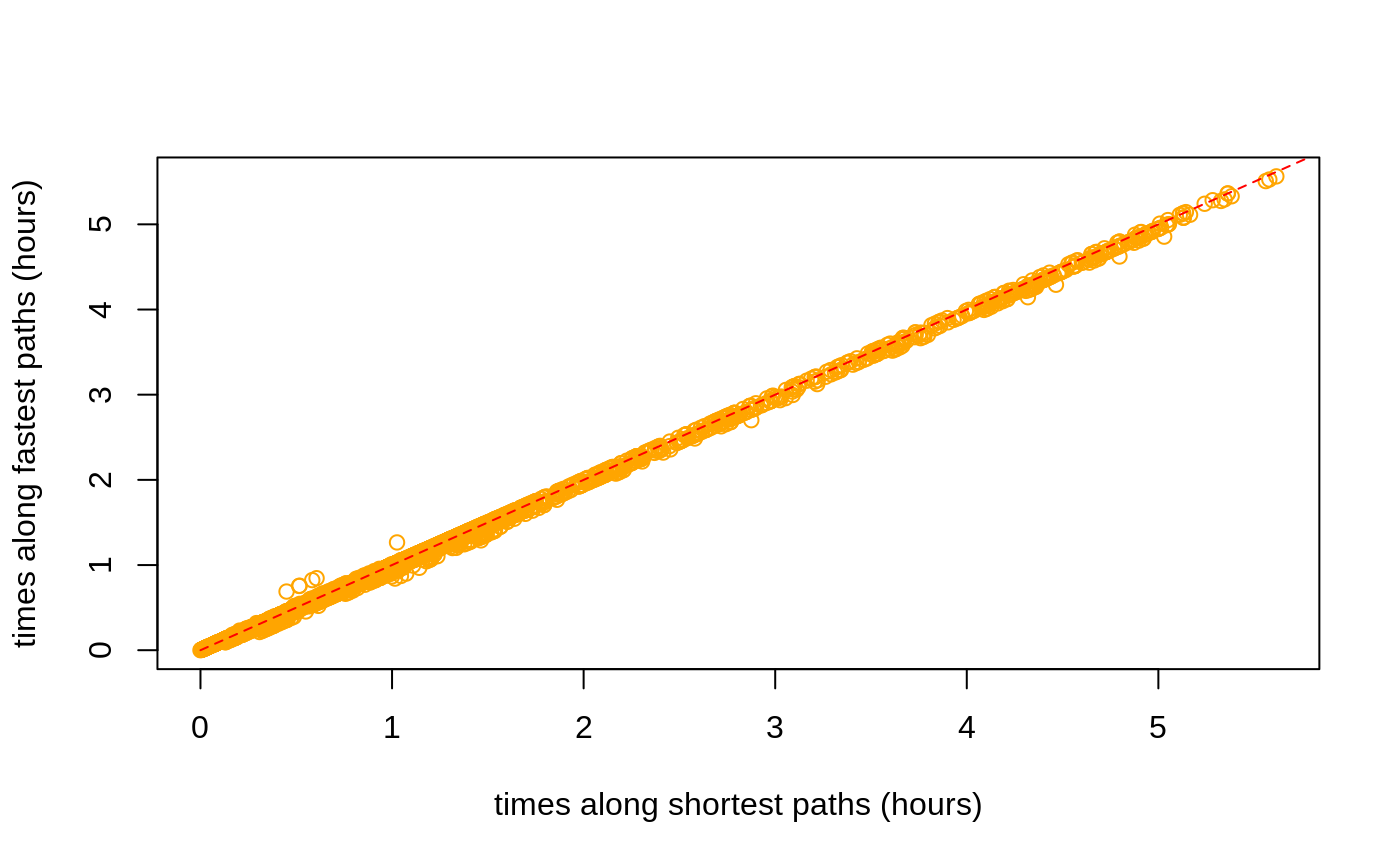
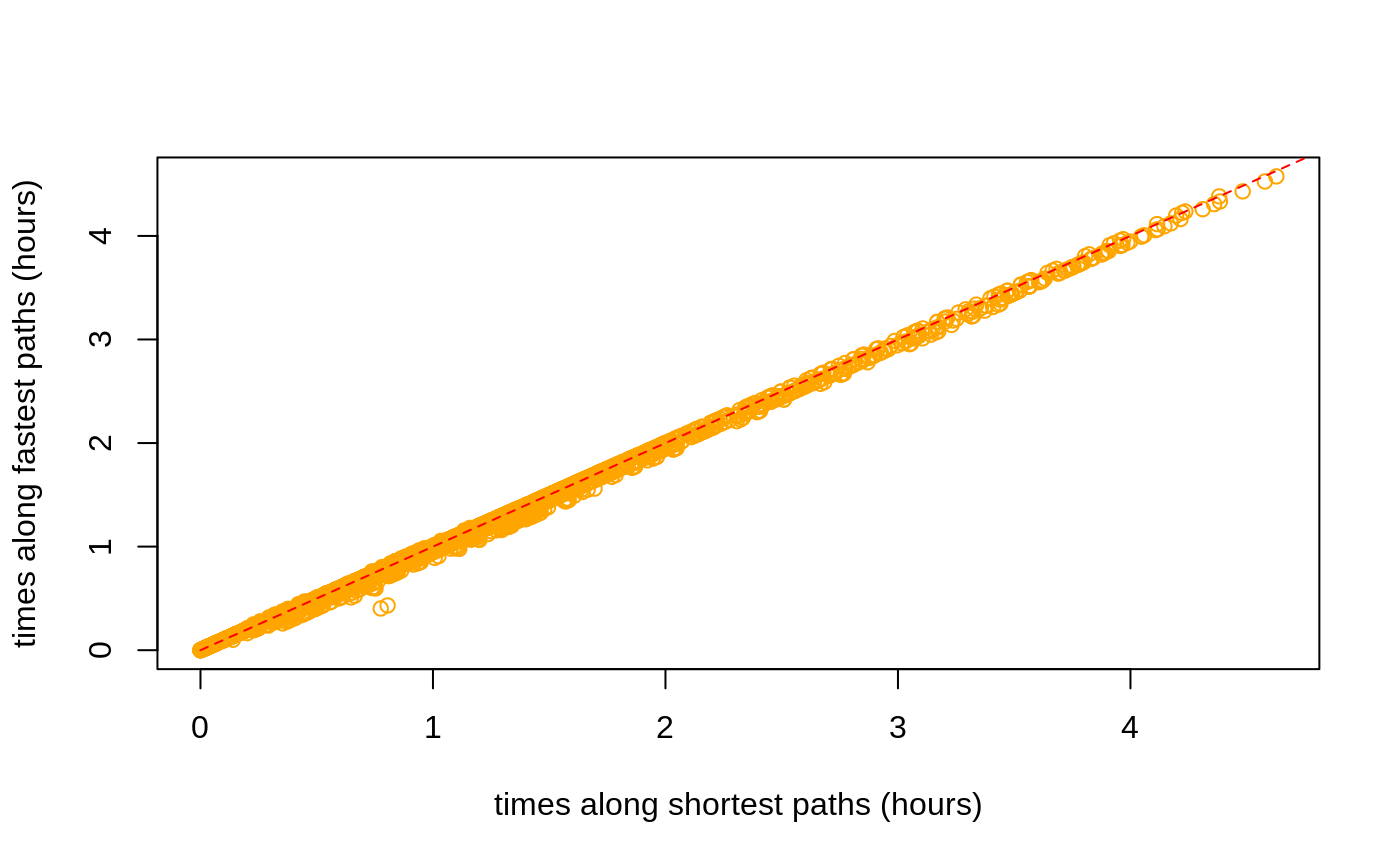
Built site for dodgr: 0.2.5.25@4a228a8

diff --git a/articles/dodgr.html b/articles/dodgr.html
@@ -70,7 +70,7 @@
       <h1>dodgr</h1>
                         <h4 class="author">Mark Padgham</h4>
             
-            <h4 class="date">2019-11-07</h4>
+            <h4 class="date">2019-11-12</h4>
       
       <small class="dont-index">Source: <a href="https://github.com/ATFutures/dodgr/blob/master/vignettes/dodgr.Rmd"><code>vignettes/dodgr.Rmd</code></a></small>
       <div class="hidden name"><code>dodgr.Rmd</code></div>
@@ -424,22 +424,22 @@
 ## 1                  d &lt;- dodgr_dists(graph, from = from_id, to = to_id, heap = "BHeap")
 ## 12                  d &lt;- igraph::distances(igr, v = from_id, to = to_id, mode = "out")
 ## 2                  d &lt;- dodgr_dists(graph, from = from_id, to = to_id, heap = "FHeap")
-## 3                d &lt;- dodgr_dists(graph, from = from_id, to = to_id, heap = "TriHeap")
 ## 5                 d &lt;- dodgr_dists(graph, from = from_id, to = to_id, heap = "Heap23")
+## 3                d &lt;- dodgr_dists(graph, from = from_id, to = to_id, heap = "TriHeap")
 ## 4             d &lt;- dodgr_dists(graph, from = from_id, to = to_id, heap = "TriHeapExt")
 ##    replications elapsed relative user.self sys.self user.child sys.child
-## 6             1   0.005      1.0     0.007        0          0         0
-## 11            1   0.005      1.0     0.007        0          0         0
-## 7             1   0.007      1.4     0.010        0          0         0
-## 8             1   0.007      1.4     0.012        0          0         0
-## 10            1   0.007      1.4     0.012        0          0         0
-## 9             1   0.008      1.6     0.008        0          0         0
-## 1             1   0.017      3.4     0.027        0          0         0
-## 12            1   0.024      4.8     0.024        0          0         0
-## 2             1   0.027      5.4     0.046        0          0         0
-## 3             1   0.031      6.2     0.054        0          0         0
-## 5             1   0.031      6.2     0.052        0          0         0
-## 4             1   0.035      7.0     0.035        0          0         0</code></pre>
+## 6             1   0.003    1.000     0.004        0          0         0
+## 11            1   0.003    1.000     0.004        0          0         0
+## 7             1   0.004    1.333     0.004        0          0         0
+## 8             1   0.004    1.333     0.006        0          0         0
+## 10            1   0.004    1.333     0.006        0          0         0
+## 9             1   0.005    1.667     0.004        0          0         0
+## 1             1   0.011    3.667     0.015        0          0         0
+## 12            1   0.012    4.000     0.012        0          0         0
+## 2             1   0.015    5.000     0.024        0          0         0
+## 5             1   0.017    5.667     0.028        0          0         0
+## 3             1   0.018    6.000     0.030        0          0         0
+## 4             1   0.020    6.667     0.019        0          0         0</code></pre>
 <p>The key column of that <code>data.frame</code> is <code>relative</code>, which quantifies the relative performance of each test in relation to the best which is given a score of 1. <code>dodgr</code> using the default <code>heap = "BHeap"</code>, which is a binary heap priority queue, performs faster than <a href="https://igraph.org"><code>igraph</code></a> <span class="citation">(Csardi and Nepusz 2006)</span> for these graphs. Different kind of graphs will perform differently with different priority queue structures, and this function enables users to empirically discern the optimal heap for their kind of graph.</p>
 <p>Note, however, that this is not an entirely fair comparison, because <code>dodgr</code> calculates dual-weighted distances, whereas <a href="https://igraph.org"><code>igraph</code></a>—and indeed all other <strong>R</strong> packages—only directly calculate distances based on a single set of weights. Implementing dual-weighted routing in these cases requires explicitly re-tracing all paths and summing the second set of weights along each path. A time comparison in that case would be very strongly in favour of <code>dodgr</code>. Moreover, <code>dodgr</code> can convert graphs to contracted form through removing redundant vertices, as detailed in the following section. Doing so greatly improves performance with respect to <a href="https://igraph.org"><code>igraph</code></a>.</p>
 <p>For those wishing to do explicit comparisons themselves, the following code generates the <a href="https://igraph.org"><code>igraph</code></a> equivalent of <a href="https://atfutures.github.io/dodgr/reference/dodgr_distances.html"><code><a href="../reference/dodgr_distances.html">dodgr_distances()</a></code></a>, although of course for single-weighted graphs only:</p>
@@ -470,11 +470,11 @@
 <a class="sourceLine" id="cb86-5" data-line-number="5">                       d2 &lt;-<span class="st"> </span><span class="kw"><a href="../reference/dodgr_dists.html">dodgr_dists</a></span> (graph, <span class="dt">from =</span> from, <span class="dt">to =</span> to),</a>
 <a class="sourceLine" id="cb86-6" data-line-number="6">                       <span class="dt">replications =</span> <span class="dv">2</span>)</a></code></pre></div>
 <pre><code>##                                             test replications elapsed
-## 2 d2 &lt;- dodgr_dists(graph, from = from, to = to)            2   0.045
-## 1   d2 &lt;- dodgr_dists(grc, from = from, to = to)            2   0.009
+## 2 d2 &lt;- dodgr_dists(graph, from = from, to = to)            2   0.035
+## 1   d2 &lt;- dodgr_dists(grc, from = from, to = to)            2   0.006
 ##   relative user.self sys.self user.child sys.child
-## 2        5     0.065        0          0         0
-## 1        1     0.011        0          0         0</code></pre>
+## 2    5.833     0.052    0.000          0         0
+## 1    1.000     0.005    0.004          0         0</code></pre>
 <p>And contracting the graph has a similar effect of speeding up pairwise routing between these 100 points. All routing algorithms scale non-linearly with size, and relative improvements in efficiency will be even greater for larger graphs.</p>
 <div id="routing-on-contracted-graphs" class="section level2">
 <h2 class="hasAnchor">
@@ -486,11 +486,11 @@
 <pre><code>## [1] 672</code></pre>
 <div class="sourceCode" id="cb90"><pre class="sourceCode r"><code class="sourceCode r"><a class="sourceLine" id="cb90-1" data-line-number="1">verts &lt;-<span class="st"> </span><span class="kw"><a href="https://rdrr.io/r/base/sample.html">sample</a></span> (<span class="kw"><a href="../reference/dodgr_vertices.html">dodgr_vertices</a></span> (graph)<span class="op">$</span>id, <span class="dt">size =</span> <span class="dv">100</span>)</a>
 <a class="sourceLine" id="cb90-2" data-line-number="2"><span class="kw"><a href="https://rdrr.io/r/utils/head.html">head</a></span> (verts) <span class="co"># a character vector</span></a></code></pre></div>
-<pre><code>## [1] "2717241316" "571423430"  "2398957714" "1691496204" "2195424909"
-## [6] "1427080684"</code></pre>
+<pre><code>## [1] "571423751"  "1148814971" "2195424991" "1161117501" "6161853527"
+## [6] "1143452536"</code></pre>
 <div class="sourceCode" id="cb92"><pre class="sourceCode r"><code class="sourceCode r"><a class="sourceLine" id="cb92-1" data-line-number="1">grc &lt;-<span class="st"> </span><span class="kw"><a href="../reference/dodgr_contract_graph.html">dodgr_contract_graph</a></span> (graph, verts)</a>
 <a class="sourceLine" id="cb92-2" data-line-number="2"><span class="kw"><a href="https://rdrr.io/r/base/nrow.html">nrow</a></span> (grc)</a></code></pre></div>
-<pre><code>## [1] 846</code></pre>
+<pre><code>## [1] 843</code></pre>
 <p>Retaining the nominated vertices yields a graph with considerably more edges than the fully contracted graph excluding these vertices. The <a href="https://atfutures.github.io/dodgr/reference/dodgr_distances.html"><code><a href="../reference/dodgr_distances.html">dodgr_distances()</a></code></a> function can be applied to the latter graph to obtain accurate distances precisely routed between these points, yet using the speed advantages of graph contraction.</p>
 </div>
 </div>
@@ -531,37 +531,87 @@
 <pre><code>## [1] 10</code></pre>
 <p>The result (<code>dp</code>) is a list of 10 items, each of which contains 5 vectors. An example is,</p>
 <div class="sourceCode" id="cb99"><pre class="sourceCode r"><code class="sourceCode r"><a class="sourceLine" id="cb99-1" data-line-number="1">dp [[<span class="dv">1</span>]] [[<span class="dv">1</span>]]</a></code></pre></div>
-<pre><code>##  [1] "1204772772" "1204772832" "1388483668" "1204772777" "1204772855"
-##  [6] "1388481881" "1204772661" "1204772759" "1204772723" "3526242955"
-## [11] "1204772781" "1204772873" "1388483320" "1388482647" "1204772675"
-## [16] "1204772877" "1204772708" "1204772780" "1204772868" "1388482473"
-## [21] "1204772830" "1388481903" "3921525779" "1204772909" "1204772735"
-## [26] "3921523914" "1388483358" "1204772801" "1388483466" "1204772874"
-## [31] "1204772697" "3921523012" "1204772779" "1204772753" "3921522973"
-## [36] "1388482448" "1204772895" "1204772726" "1204772914" "1388483784"
-## [41] "1388482296" "1388483001" "1204772748" "1204772807" "1204772888"
-## [46] "1388483168" "1204772860" "1204772663" "1388482943" "1388482235"
-## [51] "977472736"  "977472640"  "1388483756" "1388483120" "977472872" 
-## [56] "977472830"  "977473072"  "977472969"  "1388483451" "977473047" 
-## [61] "6410121123" "2627480728" "4552228189" "977472811"  "977472776" 
-## [66] "5351394447" "977473010"  "977472907"  "977473143"  "5351394450"
-## [71] "5351394449" "977472990"  "5351394451" "5351394452" "977472618" 
-## [76] "5351394453" "977473123"  "977472755"  "977472717"  "977472947" 
-## [81] "977472850"  "5351394454" "977473090"  "5351394457" "5351394456"
-## [86] "5351394455" "977472926"  "977473069"  "5351394458" "980499691" 
-## [91] "1715805316" "977472699"  "1715830667" "3818704553" "3818704554"
-## [96] "3818704555" "3818704556" "3818705557" "3818705558"</code></pre>
+<pre><code>##   [1] "3544918745" "3544918726" "3544918719" "3544918713" "3544918711"
+##   [6] "3544918709" "3544918710" "3544918712" "3544918714" "3544918715"
+##  [11] "3544918717" "3544918718" "3544918722" "3544918727" "3544918728"
+##  [16] "3544918729" "3544918730" "3544918734" "3544918738" "3544918736"
+##  [21] "3544918737" "3544918739" "3544918742" "3544918741" "3544918740"
+##  [26] "3544918735" "3544918733" "3544918732" "3544918731" "3544918725"
+##  [31] "3544918720" "3544918716" "3544918708" "3544918705" "3544918701"
+##  [36] "3544918699" "1691496284" "3544918695" "3544918692" "3544918690"
+##  [41] "3544918688" "3544918684" "677638827"  "1691496416" "677638828" 
+##  [46] "1691496412" "1161117556" "1691496409" "677638825"  "1691496407"
+##  [51] "1691496375" "1691496404" "1691496406" "1691496372" "1691495745"
+##  [56] "1691496367" "677638829"  "1161117413" "1161117358" "1161117772"
+##  [61] "1691496364" "1691496190" "677638821"  "1691496086" "1161117473"
+##  [66] "1161117620" "1691496081" "676875383"  "1691495727" "677638822" 
+##  [71] "677638823"  "1691495723" "1691495720" "1691495717" "1161117349"
+##  [76] "1691495698" "245631502"  "1691495696" "1161117543" "1691495693"
+##  [81] "1691495680" "1691495677" "1161117452" "1691495672" "1161117302"
+##  [86] "1691495665" "1691495937" "1161117663" "1691496251" "1691496243"
+##  [91] "1161117704" "1691496247" "1691496237" "1161117404" "1691496236"
+##  [96] "1691496204" "1161117288" "1691495910" "1691495985" "677638817" 
+## [101] "1161117652" "1161117586" "1691495982" "1161117526" "1691495952"
+## [106] "1691495943" "1161117392" "1691495939" "1161117756" "1691495934"
+## [111] "1161117440" "1376769146" "1161117501" "1691495929" "1161117383"
+## [116] "1691496079" "1161117679" "677638820"  "1691496070" "1161117278"
+## [121] "1691496072" "1691496075" "1128374463" "1161117327" "2398958044"
+## [126] "2398958043" "2398958041" "2398958040" "677638818"  "6433630456"
+## [131] "1161117434" "2398958010" "2398958005" "1128374490" "2398957968"
+## [136] "1161117636" "2398957939" "1376768724" "677638819"  "1376768355"
+## [141] "1128374455" "1376768842" "2398957896" "2398957895" "1128374434"
+## [146] "1376768821" "677638770"  "1376768479" "1376769040" "2398957837"
+## [151] "2398957826" "1128374394" "2398957816" "1376768691" "977461235" 
+## [156] "1128374418" "1376768409" "1376768986" "245631194"  "1376768627"
+## [161] "1128374362" "676875279"  "1357430213" "1161117548" "1128374360"
+## [166] "1376769220" "1376768749" "1357430014" "1376768380" "676875276" 
+## [171] "1376768957" "1357430113" "1376768597" "1376768325" "1161117723"
+## [176] "1376768899" "1161117735" "1376768537" "676875308"  "1376769132"
+## [181] "1128374447" "1376768650" "1376768293" "676875274"  "1376768867"
+## [186] "1161117304" "1376768504" "1128374467" "1128374373" "6161027522"
+## [191] "1128374412" "1376769190" "1128374442" "676875269"  "245631169" 
+## [196] "1376768805" "2398957722" "313796425"  "2398957720" "1376769010"
+## [201] "2398957713" "1376768565" "2398957701" "2398957696" "1128374495"
+## [206] "313796426"  "1128374399" "313796427"  "313796428"  "2398957603"
+## [211] "313796429"  "1427594112" "1376769158" "313796430"  "313796431" 
+## [216] "2398957567" "2398957563" "3338186986" "313796432"  "2398957555"
+## [221] "2398957554" "1376768773" "313796433"  "2419196948" "2398957539"
+## [226] "676875267"  "2398957521" "2398957526" "2398957532" "2398957537"
+## [231] "676635860"  "2398957542" "2398957543" "2398957544" "2398957546"
+## [236] "338905245"  "2398957549" "2398957557" "2398957561" "338905227" 
+## [241] "2398957564" "338905221"  "2398957568" "2398957570" "2398957571"
+## [246] "1427594104" "2398957576" "338905220"  "2398957584" "1376769086"
+## [251] "1376768510" "2398957588" "2398957589" "338905219"  "1376768779"
+## [256] "1376769164" "338905128"  "1427115955" "339574628"  "2398957619"
+## [261] "339574629"  "339574630"  "2398957639" "2398957654" "1148814809"
+## [266] "2717241324" "339574631"  "2398957686" "3818714155" "339574819" 
+## [271] "339574820"  "3818714154" "6228103645" "6228103646" "6228103647"
+## [276] "6228103648" "6228103649" "339574828"  "339574829"  "1376768626"
+## [281] "1376768985" "1376768324" "1376768690" "1376769039" "1376768478"
+## [286] "1560930407" "1376768586" "1376768946" "1376768369" "1376768738"
+## [291] "2717241312" "2717241323" "2717241306" "2717241321" "2717241309"
+## [296] "2717241332" "2717241339" "2717241317" "2717241331" "2717241300"
+## [301] "2717241302" "6410121124" "1376768559" "1376768918" "1376769209"
+## [306] "1376768614" "1376768975" "1376768398" "1376768862" "1376768464"
+## [311] "1376768828" "1376769110" "3697937607" "3697937608" "3697937609"
+## [316] "3697937616" "3697937612" "3697937611" "3697937613" "3697937614"
+## [321] "3697937615" "3697937610" "3697937571" "3697938325" "3697938326"
+## [326] "3697938327" "3697938328" "3697938332" "3697938329" "3697938330"
+## [331] "3697938331" "3697938336" "3697938337" "3697938338" "3697938333"
+## [336] "3697938334" "3697938335" "3697938022" "3697938021" "3697938023"
+## [341] "3697938024" "338904455"  "1054862659" "2398957839" "1148814749"
+## [346] "2398957836" "1148815271" "2398957833" "1054866750"</code></pre>
 <p>For spatial graphs, the coordinates of these paths can be obtained by extracting the vertices with <code><a href="../reference/dodgr_vertices.html">dodgr_vertices()</a></code> and matching the vertex IDs:</p>
 <div class="sourceCode" id="cb101"><pre class="sourceCode r"><code class="sourceCode r"><a class="sourceLine" id="cb101-1" data-line-number="1">verts &lt;-<span class="st"> </span><span class="kw"><a href="../reference/dodgr_vertices.html">dodgr_vertices</a></span> (graph)</a>
 <a class="sourceLine" id="cb101-2" data-line-number="2">path1 &lt;-<span class="st"> </span>verts [<span class="kw"><a href="https://rdrr.io/r/base/match.html">match</a></span> (dp [[<span class="dv">1</span>]] [[<span class="dv">1</span>]], verts<span class="op">$</span>id), ]</a>
 <a class="sourceLine" id="cb101-3" data-line-number="3"><span class="kw"><a href="https://rdrr.io/r/utils/head.html">head</a></span> (path1)</a></code></pre></div>
 <pre><code>##              id        x        y component   n
-## 1460 1204772772 76.38940 15.34776         2 742
-## 1462 1204772832 76.38979 15.34846         2 743
-## 1464 1388483668 76.39092 15.35085         2 744
-## 1466 1204772777 76.39116 15.35116         2 745
-## 1468 1204772855 76.39161 15.35147         2 746
-## 1470 1388481881 76.39200 15.35166         2 747</code></pre>
+## 1146 3544918745 76.59592 15.37955         1 585
+## 1144 3544918726 76.59472 15.37754         1 584
+## 1142 3544918719 76.59412 15.37688         1 583
+## 1140 3544918713 76.59389 15.37667         1 582
+## 1138 3544918711 76.59374 15.37662         1 581
+## 1136 3544918709 76.59349 15.37660         1 580</code></pre>
 <p>Paths calculated on contracted graphs will of course have fewer vertices than those calculated on full graphs.</p>
 </div>
 <div id="aggregated-flows" class="section level1">
@@ -595,17 +645,17 @@
 ## 4 15.34173   8.888670   11.11084 unclassified 28565950         1  6.399842
 ## 5 15.34179   9.326536   11.65817 unclassified 28565950         1  6.715106
 ## 6 15.34174   9.326536   11.65817 unclassified 28565950         1  6.715106
-##   time_weighted flow
-## 1    119.197952    0
-## 2    119.197952    0
-## 3      7.999803    0
-## 4      7.999803    0
-## 5      8.393882    0
-## 6      8.393882    0</code></pre>
+##   time_weighted     flow
+## 1    119.197952  0.00000
+## 2    119.197952 59.62541
+## 3      7.999803  0.00000
+## 4      7.999803 59.62541
+## 5      8.393882  0.00000
+## 6      8.393882 59.62541</code></pre>
 <p>Most flows are zero because they have only been calculated between very few points in the graph.</p>
 <div class="sourceCode" id="cb106"><pre class="sourceCode r"><code class="sourceCode r"><a class="sourceLine" id="cb106-1" data-line-number="1"><span class="kw"><a href="https://rdrr.io/r/base/summary.html">summary</a></span> (graph_f<span class="op">$</span>flow)</a></code></pre></div>
 <pre><code>##    Min. 1st Qu.  Median    Mean 3rd Qu.    Max. 
-##    0.00    0.00    0.00    9.09    0.00  130.22</code></pre>
+##   0.000   0.000   0.000   6.947   0.000  94.824</code></pre>
 </div>
 <div id="flow-dispersal" class="section level2">
 <h2 class="hasAnchor">
@@ -615,7 +665,7 @@
 <a class="sourceLine" id="cb108-2" data-line-number="2">graph_f &lt;-<span class="st"> </span><span class="kw"><a href="../reference/dodgr_flows_disperse.html">dodgr_flows_disperse</a></span> (graph, <span class="dt">from =</span> from, <span class="dt">dens =</span> dens)</a>
 <a class="sourceLine" id="cb108-3" data-line-number="3"><span class="kw"><a href="https://rdrr.io/r/base/summary.html">summary</a></span> (graph_f<span class="op">$</span>flow)</a></code></pre></div>
 <pre><code>##      Min.   1st Qu.    Median      Mean   3rd Qu.      Max. 
-## 0.000e+00 0.000e+00 9.787e-05 1.674e-03 1.453e-03 7.380e-02</code></pre>
+## 0.0000000 0.0000000 0.0000918 0.0016742 0.0017389 0.0270527</code></pre>
 </div>
 <div id="merging-directed-flows" class="section level2">
 <h2 class="hasAnchor">
@@ -625,7 +675,7 @@
 <p>Resultant graphs produced by <a href="https://atfutures.github.io/dodgr/reference/merge_directed_graph.html"><code><a href="../reference/merge_directed_graph.html">merge_directed_graph()</a></code></a> only include those edges having non-zero flows, and so:</p>
 <div class="sourceCode" id="cb111"><pre class="sourceCode r"><code class="sourceCode r"><a class="sourceLine" id="cb111-1" data-line-number="1"><span class="kw"><a href="https://rdrr.io/r/base/nrow.html">nrow</a></span> (graph_f); <span class="kw"><a href="https://rdrr.io/r/base/nrow.html">nrow</a></span> (graph_undir) <span class="co"># the latter is much smaller</span></a></code></pre></div>
 <pre><code>## [1] 5973</code></pre>
-<pre><code>## [1] 2929</code></pre>
+<pre><code>## [1] 2876</code></pre>
 <p>The resultant graph can readily be merged with the original graph to regain the original data on vertex coordinates through</p>
 <div class="sourceCode" id="cb114"><pre class="sourceCode r"><code class="sourceCode r"><a class="sourceLine" id="cb114-1" data-line-number="1">graph &lt;-<span class="st"> </span>graph [graph_undir<span class="op">$</span>edge_id, ]</a>
 <a class="sourceLine" id="cb114-2" data-line-number="2">graph<span class="op">$</span>flow &lt;-<span class="st"> </span>graph_undir<span class="op">$</span>flow</a></code></pre></div>

diff --git a/articles/times.html b/articles/times.html
@@ -70,7 +70,7 @@
       <h1>Street networks and time-based routing</h1>
                         <h4 class="author">Mark Padgham</h4>
             
-            <h4 class="date">2019-11-07</h4>
+            <h4 class="date">2019-11-12</h4>
       
       <small class="dont-index">Source: <a href="https://github.com/ATFutures/dodgr/blob/master/vignettes/times.Rmd"><code>vignettes/times.Rmd</code></a></small>
       <div class="hidden name"><code>times.Rmd</code></div>
@@ -226,11 +226,11 @@
 <p><img src="times_files/figure-html/shortest-vs-fastest-1.png" width="700"></p>
 <p>The average distance between the two (in metres) is:</p>
 <div class="sourceCode" id="cb9"><pre class="sourceCode r"><code class="sourceCode r"><a class="sourceLine" id="cb9-1" data-line-number="1"><span class="kw"><a href="https://rdrr.io/r/base/mean.html">mean</a></span> (<span class="kw"><a href="https://rdrr.io/r/base/MathFun.html">abs</a></span> (d_time <span class="op">-</span><span class="st"> </span>d_dist), <span class="dt">na.rm =</span> <span class="ot">TRUE</span>)</a></code></pre></div>
-<pre><code>## [1] 44.77098</code></pre>
+<pre><code>## [1] 35.76633</code></pre>
 <p>The plot reveals that shortest distances are indeed somewhat shorter than distances along fastest paths, but also that some fastest paths are actually shorter than shortest paths:</p>
 <div class="sourceCode" id="cb11"><pre class="sourceCode r"><code class="sourceCode r"><a class="sourceLine" id="cb11-1" data-line-number="1">index &lt;-<span class="st"> </span><span class="kw"><a href="https://rdrr.io/r/base/which.html">which</a></span> (<span class="op">!</span><span class="kw"><a href="https://rdrr.io/r/base/NA.html">is.na</a></span> (d_time) <span class="op">&amp;</span><span class="st"> </span><span class="op">!</span><span class="kw"><a href="https://rdrr.io/r/base/NA.html">is.na</a></span> (d_dist))</a>
 <a class="sourceLine" id="cb11-2" data-line-number="2"><span class="kw"><a href="https://rdrr.io/r/base/length.html">length</a></span> (<span class="kw"><a href="https://rdrr.io/r/base/which.html">which</a></span> (d_time [index] <span class="op">&lt;</span><span class="st"> </span>d_dist [index])) <span class="op">/</span><span class="st"> </span><span class="kw"><a href="https://rdrr.io/r/base/length.html">length</a></span> (index)</a></code></pre></div>
-<pre><code>## [1] 0.0254173</code></pre>
+<pre><code>## [1] 0.01726814</code></pre>
 <p>While <code>dodgr</code> and indeed all routing engines attempt to maximally reconcile differences between fastest and shortest routes, there nevertheless remain important discrepancies. Foremost among these, and the primary reason why some fastest routes may in fact be shorter than shortest routes, is that fastest routes allocate preferences for different kinds of way based both on the <code>value</code> column in the <code>weighting_profiles$weighting_profiles</code> table illustrated above, and on the actual maximum speed of a given edge, which itself may be a combination of maximum speeds as specified in OSM itself, maximum speeds from the <code>weighting_profiles$weighting_profiles</code> table, or values specific to a given surface. The result is that some unique combination of maximum speeds along a network may lead to <em>fastest</em> routes being preferentially directed along a path that is actually shorter than the direct shortest path which is calculated independent of maximum speed values.</p>
 <p>Such discrepancies are important in understanding differences in routes <em>times</em> calculated along shortest versus fastest paths. These times can be calculated (in seconds) with the <a href="https://atfutures.github.io/dodgr/reference/dodgr_times.html"><code><a href="../reference/dodgr_times.html">dodgr_times()</a></code></a> function:</p>
 <div class="sourceCode" id="cb13"><pre class="sourceCode r"><code class="sourceCode r"><a class="sourceLine" id="cb13-1" data-line-number="1">t_dist &lt;-<span class="st"> </span><span class="kw"><a href="../reference/dodgr_times.html">dodgr_times</a></span> (graph, <span class="dt">from =</span> from, <span class="dt">to =</span> to, <span class="dt">shortest =</span> <span class="ot">TRUE</span>) <span class="co"># default</span></a>
@@ -241,11 +241,11 @@
 <a class="sourceLine" id="cb13-6" data-line-number="6"><span class="kw"><a href="https://rdrr.io/r/graphics/lines.html">lines</a></span> (<span class="dv">0</span><span class="op">:</span><span class="dv">100</span>, <span class="dv">0</span><span class="op">:</span><span class="dv">100</span>, <span class="dt">col =</span> <span class="st">"red"</span>, <span class="dt">lty =</span> <span class="dv">2</span>)</a></code></pre></div>
 <p><img src="times_files/figure-html/shortest-vs-fastest-times-1.png" width="700"></p>
 <div class="sourceCode" id="cb14"><pre class="sourceCode r"><code class="sourceCode r"><a class="sourceLine" id="cb14-1" data-line-number="1"><span class="kw"><a href="https://rdrr.io/r/base/mean.html">mean</a></span> (<span class="kw"><a href="https://rdrr.io/r/base/MathFun.html">abs</a></span> (t_time <span class="op">-</span><span class="st"> </span>t_dist), <span class="dt">na.rm =</span> <span class="ot">TRUE</span>)</a></code></pre></div>
-<pre><code>## [1] 42.61443</code></pre>
+<pre><code>## [1] 38.74983</code></pre>
 <p>As above, times along fastest paths are generally less than times along shortest paths, although there are again a few exceptions:</p>
 <div class="sourceCode" id="cb16"><pre class="sourceCode r"><code class="sourceCode r"><a class="sourceLine" id="cb16-1" data-line-number="1">index &lt;-<span class="st"> </span><span class="kw"><a href="https://rdrr.io/r/base/which.html">which</a></span> (<span class="op">!</span><span class="kw"><a href="https://rdrr.io/r/base/NA.html">is.na</a></span> (t_time) <span class="op">&amp;</span><span class="st"> </span><span class="op">!</span><span class="kw"><a href="https://rdrr.io/r/base/NA.html">is.na</a></span> (t_dist))</a>
 <a class="sourceLine" id="cb16-2" data-line-number="2"><span class="kw"><a href="https://rdrr.io/r/base/length.html">length</a></span> (<span class="kw"><a href="https://rdrr.io/r/base/which.html">which</a></span> (t_dist [index] <span class="op">&lt;</span><span class="st"> </span>t_time [index])) <span class="op">/</span><span class="st"> </span><span class="kw"><a href="https://rdrr.io/r/base/length.html">length</a></span> (index)</a></code></pre></div>
-<pre><code>## [1] 0.02067527</code></pre>
+<pre><code>## [1] 0.01144742</code></pre>
 <p>These results demonstrate how the combination of the <a href="https://atfutures.github.io/dodgr/reference/dodgr_distances.html"><code><a href="../reference/dodgr_distances.html">dodgr_distances()</a></code></a> and <a href="https://atfutures.github.io/dodgr/reference/dodgr_times.html"><code><a href="../reference/dodgr_times.html">dodgr_times()</a></code></a> functions enable calculation of both distances and times along both shortest and fastest paths.</p>
 <div id="time-based-paths-and-flow-aggregation" class="section level2">
 <h2 class="hasAnchor">

diff --git a/reference/compare_heaps.html b/reference/compare_heaps.html
@@ -160,27 +160,27 @@ fair comparisons, run only once or re-start the current R session.</p>
 #&gt; 11        d &lt;- dodgr_dists(graph_contracted, from = from_id, to = to_id, heap = "set")
 #&gt; 7       d &lt;- dodgr_dists(graph_contracted, from = from_id, to = to_id, heap = "FHeap")
 #&gt; 8     d &lt;- dodgr_dists(graph_contracted, from = from_id, to = to_id, heap = "TriHeap")
-#&gt; 10     d &lt;- dodgr_dists(graph_contracted, from = from_id, to = to_id, heap = "Heap23")
 #&gt; 9  d &lt;- dodgr_dists(graph_contracted, from = from_id, to = to_id, heap = "TriHeapExt")
+#&gt; 10     d &lt;- dodgr_dists(graph_contracted, from = from_id, to = to_id, heap = "Heap23")
 #&gt; 1                  d &lt;- dodgr_dists(graph, from = from_id, to = to_id, heap = "BHeap")
 #&gt; 12                  d &lt;- igraph::distances(igr, v = from_id, to = to_id, mode = "out")
 #&gt; 2                  d &lt;- dodgr_dists(graph, from = from_id, to = to_id, heap = "FHeap")
-#&gt; 3                d &lt;- dodgr_dists(graph, from = from_id, to = to_id, heap = "TriHeap")
 #&gt; 5                 d &lt;- dodgr_dists(graph, from = from_id, to = to_id, heap = "Heap23")
+#&gt; 3                d &lt;- dodgr_dists(graph, from = from_id, to = to_id, heap = "TriHeap")
 #&gt; 4             d &lt;- dodgr_dists(graph, from = from_id, to = to_id, heap = "TriHeapExt")
 #&gt;    replications elapsed relative user.self sys.self user.child sys.child
-#&gt; 6             1   0.005      1.0     0.007    0.000          0         0
-#&gt; 11            1   0.006      1.2     0.007    0.000          0         0
-#&gt; 7             1   0.008      1.6     0.007    0.004          0         0
-#&gt; 8             1   0.008      1.6     0.012    0.000          0         0
-#&gt; 10            1   0.008      1.6     0.012    0.000          0         0
-#&gt; 9             1   0.009      1.8     0.009    0.000          0         0
-#&gt; 1             1   0.019      3.8     0.027    0.000          0         0
-#&gt; 12            1   0.022      4.4     0.022    0.000          0         0
-#&gt; 2             1   0.027      5.4     0.045    0.000          0         0
-#&gt; 3             1   0.032      6.4     0.054    0.000          0         0
-#&gt; 5             1   0.032      6.4     0.054    0.000          0         0
-#&gt; 4             1   0.034      6.8     0.034    0.000          0         0</div></pre>
+#&gt; 6             1   0.002      1.0     0.003    0.000          0         0
+#&gt; 11            1   0.003      1.5     0.003    0.000          0         0
+#&gt; 7             1   0.004      2.0     0.005    0.000          0         0
+#&gt; 8             1   0.004      2.0     0.005    0.000          0         0
+#&gt; 9             1   0.004      2.0     0.004    0.000          0         0
+#&gt; 10            1   0.004      2.0     0.005    0.000          0         0
+#&gt; 1             1   0.009      4.5     0.010    0.004          0         0
+#&gt; 12            1   0.012      6.0     0.012    0.000          0         0
+#&gt; 2             1   0.014      7.0     0.023    0.000          0         0
+#&gt; 5             1   0.015      7.5     0.027    0.000          0         0
+#&gt; 3             1   0.016      8.0     0.028    0.000          0         0
+#&gt; 4             1   0.017      8.5     0.018    0.000          0         0</div></pre>
   </div>
   <div class="col-md-3 hidden-xs hidden-sm" id="sidebar">
     <h2>Contents</h2>

diff --git a/reference/dodgr_flows_si.html b/reference/dodgr_flows_si.html
@@ -119,8 +119,8 @@ points, and associated vectors of densities.</p>
     </div>
 
     <pre class="usage"><span class='fu'>dodgr_flows_si</span>(<span class='no'>graph</span>, <span class='no'>from</span>, <span class='no'>to</span>, <span class='kw'>k</span> <span class='kw'>=</span> <span class='fl'>500</span>, <span class='kw'>dens_from</span> <span class='kw'>=</span> <span class='kw'>NULL</span>,
-  <span class='kw'>dens_to</span> <span class='kw'>=</span> <span class='kw'>NULL</span>, <span class='kw'>contract</span> <span class='kw'>=</span> <span class='fl'>FALSE</span>, <span class='kw'>heap</span> <span class='kw'>=</span> <span class='st'>"BHeap"</span>,
-  <span class='kw'>tol</span> <span class='kw'>=</span> <span class='fl'>0.000000000001</span>, <span class='kw'>quiet</span> <span class='kw'>=</span> <span class='fl'>TRUE</span>)</pre>
+  <span class='kw'>dens_to</span> <span class='kw'>=</span> <span class='kw'>NULL</span>, <span class='kw'>contract</span> <span class='kw'>=</span> <span class='fl'>FALSE</span>, <span class='kw'>norm_sums</span> <span class='kw'>=</span> <span class='fl'>TRUE</span>,
+  <span class='kw'>heap</span> <span class='kw'>=</span> <span class='st'>"BHeap"</span>, <span class='kw'>tol</span> <span class='kw'>=</span> <span class='fl'>0.000000000001</span>, <span class='kw'>quiet</span> <span class='kw'>=</span> <span class='fl'>TRUE</span>)</pre>
 
     <h2 class="hasAnchor" id="arguments"><a class="anchor" href="#arguments"></a>Arguments</h2>
     <table class="ref-arguments">
@@ -163,6 +163,12 @@ mapping them back on to the original full graph (recommended as this will
 generally be much faster).</p></td>
     </tr>
     <tr>
+      <th>norm_sums</th>
+      <td><p>Standardise sums from all origin points, so sum of flows
+throughout entire network equals sum of densities from all origins (see
+Note).</p></td>
+    </tr>
+    <tr>
       <th>heap</th>
       <td><p>Type of heap to use in priority queue. Options include
 Fibonacci Heap (default; <code>FHeap</code>), Binary Heap (<code>BHeap</code>),
@@ -197,6 +203,15 @@ matrix of 'k' values having 'n' columns, the return object will be a modified
 version in the input 'graph', with an additional 'n' columns, named 'flow1',
 'flow2', ... up to 'n'. These columns must be subsequently matched by the
 user back on to the corresponding columns of the matrix of 'k' values.</p>
+<p>The <code>norm_sums</code> parameter should be used whenever densities at origins
+and destinations are absolute values, and ensures that the sum of resultant
+flow values throughout the entire network equals the sum of densities at all
+origins. If <code>norm_sums = FALSE</code>, then, for example, a flow from a single
+origin with density one to a single destination along two edges will
+allocate flows of one to each of those edges, such that the sum of flows
+across the network will equal two, or greater than the sum of densities. This
+option is appropriate where densities are relative values, and ensures that
+each edge maintains relative proportions.</p>
 
     <h2 class="hasAnchor" id="examples"><a class="anchor" href="#examples"></a>Examples</h2>
     <pre class="examples"><div class='input'><span class='no'>graph</span> <span class='kw'>&lt;-</span> <span class='fu'><a href='weight_streetnet.html'>weight_streetnet</a></span> (<span class='no'>hampi</span>)

diff --git a/reference/dodgr_sample.html b/reference/dodgr_sample.html
@@ -143,7 +143,7 @@ the requested <code>nverts</code>.</p>
     <h2 class="hasAnchor" id="examples"><a class="anchor" href="#examples"></a>Examples</h2>
     <pre class="examples"><div class='input'><span class='no'>graph</span> <span class='kw'>&lt;-</span> <span class='fu'><a href='weight_streetnet.html'>weight_streetnet</a></span> (<span class='no'>hampi</span>)
 <span class='fu'><a href='https://rdrr.io/r/base/nrow.html'>nrow</a></span> (<span class='no'>graph</span>) <span class='co'># 5,742</span></div><div class='output co'>#&gt; [1] 5973</div><div class='input'><span class='no'>graph</span> <span class='kw'>&lt;-</span> <span class='fu'>dodgr_sample</span> (<span class='no'>graph</span>, <span class='kw'>nverts</span> <span class='kw'>=</span> <span class='fl'>200</span>)
-<span class='fu'><a href='https://rdrr.io/r/base/nrow.html'>nrow</a></span> (<span class='no'>graph</span>) <span class='co'># generally around 400 edges</span></div><div class='output co'>#&gt; [1] 396</div><div class='input'><span class='fu'><a href='https://rdrr.io/r/base/nrow.html'>nrow</a></span> (<span class='fu'><a href='dodgr_vertices.html'>dodgr_vertices</a></span> (<span class='no'>graph</span>)) <span class='co'># 200</span></div><div class='output co'>#&gt; [1] 200</div></pre>
+<span class='fu'><a href='https://rdrr.io/r/base/nrow.html'>nrow</a></span> (<span class='no'>graph</span>) <span class='co'># generally around 400 edges</span></div><div class='output co'>#&gt; [1] 401</div><div class='input'><span class='fu'><a href='https://rdrr.io/r/base/nrow.html'>nrow</a></span> (<span class='fu'><a href='dodgr_vertices.html'>dodgr_vertices</a></span> (<span class='no'>graph</span>)) <span class='co'># 200</span></div><div class='output co'>#&gt; [1] 200</div></pre>
   </div>
   <div class="col-md-3 hidden-xs hidden-sm" id="sidebar">
     <h2>Contents</h2>
